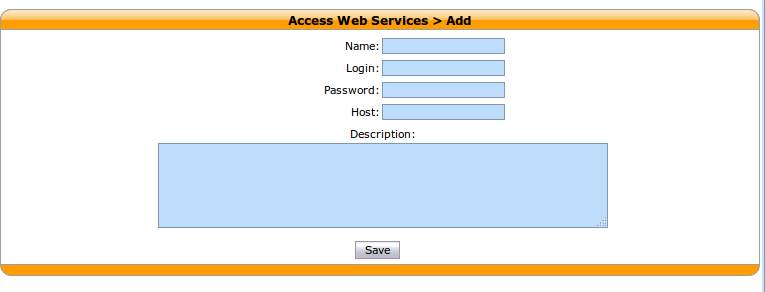
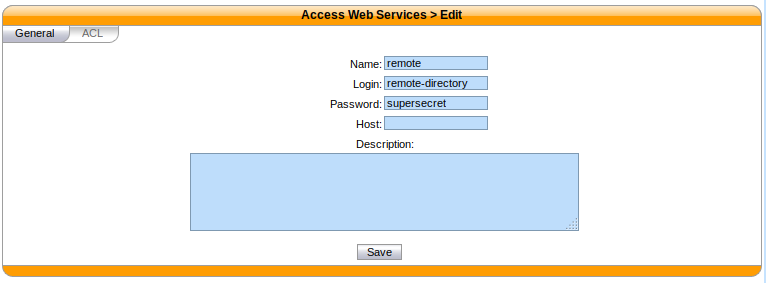
scalability: update ws user creation step

Changed region(s): [[0.0, 0.0, 1.0, 1.0]]

diff --git a/source/scalability_and_distributed_systems/contact_and_presence_sharing.rst b/source/scalability_and_distributed_systems/contact_and_presence_sharing.rst
@@ -58,17 +58,22 @@ For this procedure, the following name and IP addresses will be used:
 * XiVO 2: 192.168.1.125
 
 
+.. _create_ws_user:
+
 Add a Web Service User
 ======================
 
-The first thing is to make XiVO accept remote connections to your internal users directory. For
-this, you must create a :ref:`Web service access <web_services_access>` by authorizing either an IP
-address or a login/password.
+The first thing to do is to create a new web service access to be able to search users and get
+there presences using the following ACL.
+
+* ctid-ng.lines.*.presences.read
+* ctid-ng.users.*.presences.read
+* confd.users.read
 
 This can be done in :menuselection:`Configuration --> Management --> Web Services Access`
 
-.. figure:: images/list_user_ws.png
 .. figure:: images/create_user_ws.png
+.. figure:: images/create_user_ws_acl.png
 
 
 Configuring the directories
@@ -194,23 +199,21 @@ Configure Ctid-ng
 
 Add a configuration file on ctid-ng conf.d directory named discovery.yml with your configuration.
 
+The `service_id` and `service_key` are the ones you defined :ref:`earlier <create_ws_user>` in the web interface.
+
 .. code-block:: yaml
 
     remote_credentials:
       xivo-2:
         xivo_uuid: 1cc7fbf2-5f13-4898-9869-986990cb9b0a
-        service_id: my_service_id
-        service_key: my_secret_password
+        service_id: remote-directory
+        service_key: supersecret
 
 To get the xivo_uuid information on your second xivo, use the command:
 
 .. code-block:: sh
 
     echo $XIVO_UUID
-
-You need to add a user with the good ACL.
-
-    ctid-ng.#
 
 
 Restart xivo-ctid-ng
